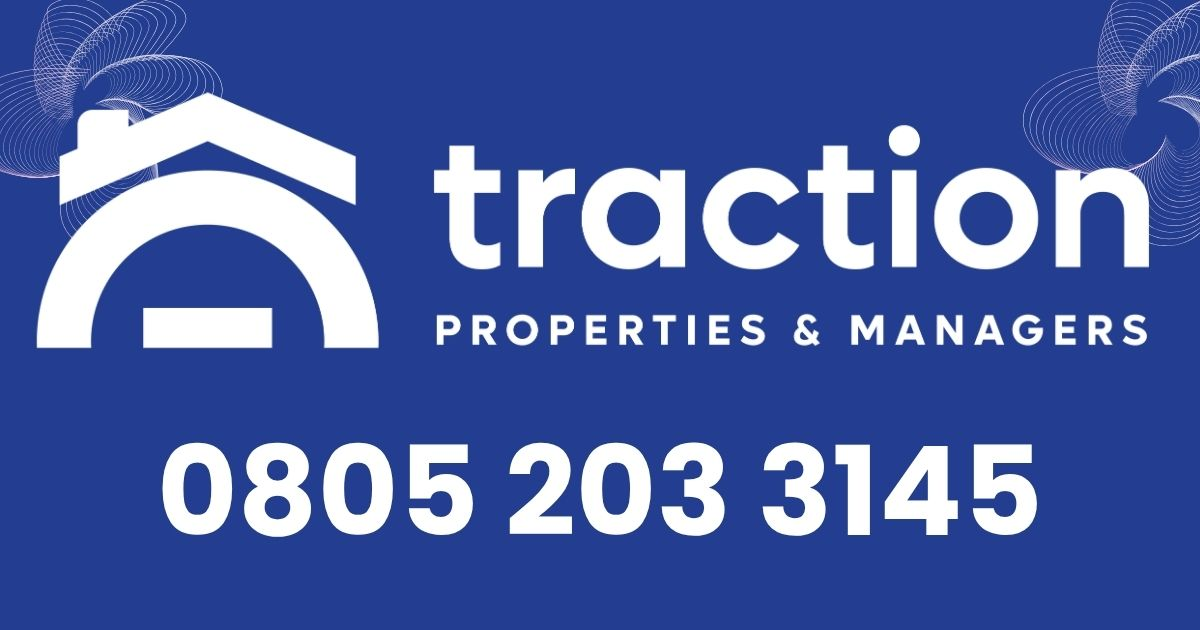
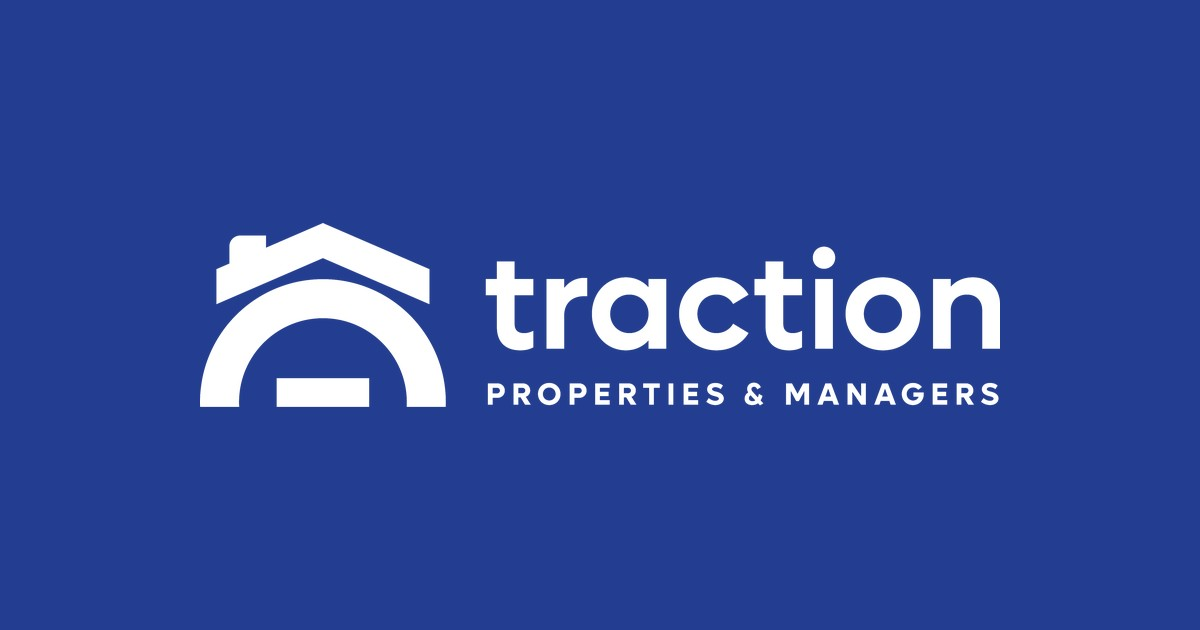
Update Traction Properties brand across estate lands and properties pages
Logo:
  Replaced old traction-properties-and-managers.png with proper new
  logo files across both pages:
  - Header/footer: traction-properties-logo-white.png (white version
    for dark green backgrounds)
  - Favicon: traction-properties-favicon.png (32px icon mark)
  - Apple touch: traction-properties-icon-512.png
  - OG image: og-traction-properties.jpg (1200x630 blue brand bg
    with white logo centered)

Estate Lands page changes:
  1. Coming Soon placeholders: each of the 5 location cards now has a
     1:1 aspect-ratio placeholder above the card header with diagonal
     grid texture, gold border badge 'Property Flyer', and 'Coming
     Soon' text. Replace with property flyer images when ready.
  2. Card feature text reduced (12.5px, tighter padding) to accommodate
     the placeholder without increasing card height
  3. Why Traction Properties section removed
  4. How It Works / Process section removed
  5. Social links updated to Traction Properties accounts:
     Instagram: @traction_properties
     TikTok: @traction_properties
     WhatsApp: 0805 203 3145

Properties page changes:
  - Why Traction Properties section added before the property
    management section (dark green, 3 value props + stat boxes)
  - New logo, favicon, OG image applied

Changed region(s): [[0.0, 0.0, 1.0, 0.6635], [0.1233, 0.6937, 0.8633, 0.8746], [0.4008, 0.6032, 0.8325, 0.6635]]

diff --git a/brands/properties/estate-lands/index.html b/brands/properties/estate-lands/index.html
@@ -31,9 +31,10 @@
     <meta property="og:title" content="Affordable Estate Lands in Abuja | Traction Properties">
     <meta property="og:description" content="Prime estate plots in Kuje, Jikwoyi, Asokoro 2, Katampe Extension 2, and Guzape. Starting from N3,000,000.">
     <meta property="og:url" content="https://tolnigeria.com/brands/properties/estate-lands/">
-    <meta property="og:image" content="https://tolnigeria.com/brands/properties/abuja-estate-lands-hero.jpg">
+    <meta property="og:image" content="https://tolnigeria.com/images/og/og-traction-properties.jpg">
 
-    <link rel="icon" type="image/x-icon" href="/images/favicon.ico">
+    <link rel="icon" type="image/png" href="/images/traction-properties-favicon.png">
+    <link rel="apple-touch-icon" href="/images/traction-properties-icon-512.png">
     <link rel="preconnect" href="https://fonts.googleapis.com">
     <link rel="preconnect" href="https://fonts.gstatic.com" crossorigin>
     <link href="https://fonts.googleapis.com/css2?family=Cormorant+Garamond:wght@400;600;700&family=Inter:wght@300;400;500;600;700&display=swap" rel="stylesheet">
@@ -288,6 +289,44 @@
             .process-steps { grid-template-columns: 1fr 1fr; }
         }
 
+        /* COMING SOON PLACEHOLDER */
+        .coming-soon {
+            width: 100%; aspect-ratio: 1 / 1;
+            background: #1a1a1a;
+            display: flex; flex-direction: column; align-items: center; justify-content: center;
+            position: relative; overflow: hidden;
+        }
+        .coming-soon::before {
+            content: ''; position: absolute; inset: 0;
+            background: repeating-linear-gradient(
+                45deg,
+                rgba(35,62,144,0.08) 0px, rgba(35,62,144,0.08) 1px,
+                transparent 1px, transparent 12px
+            );
+        }
+        .coming-soon-inner { position: relative; text-align: center; }
+        .coming-soon-badge {
+            display: inline-block;
+            border: 1.5px solid rgba(201,168,76,0.7);
+            color: #c9a84c;
+            font-size: 9px; font-weight: 800; letter-spacing: 3.5px;
+            text-transform: uppercase; padding: 5px 16px; margin-bottom: 14px;
+        }
+        .coming-soon-text {
+            font-family: 'Cormorant Garamond', serif;
+            font-size: 22px; font-weight: 700; color: rgba(255,255,255,0.9);
+            letter-spacing: 1px;
+        }
+        .coming-soon-sub {
+            font-size: 11px; color: rgba(255,255,255,0.4);
+            margin-top: 8px; letter-spacing: 0.5px;
+        }
+        /* Smaller card feature text */
+        .card-features li { font-size: 12.5px; padding: 5px 0; }
+        .card-features li i { font-size: 11px; }
+        .card-body { padding: 16px 20px 20px; }
+        .card-price { font-size: 19px; margin-bottom: 12px; }
+
         /* REVEAL ANIMATION */
         @media (prefers-reduced-motion: no-preference) {
             .location-card { opacity: 0; transform: translateY(20px); transition: opacity 0.45s ease, transform 0.45s ease, box-shadow 0.25s; }
@@ -304,7 +343,7 @@
     <!-- HEADER -->
     <header class="tp-header">
         <a href="/brands/properties/" class="tp-logo">
-            <img src="/images/traction-properties-and-managers.png" alt="Traction Properties and Managers">
+            <img src="/images/traction-properties-logo-white.png" alt="Traction Properties and Managers">
         </a>
         <button class="tp-hamburger" id="tpHamburger" aria-label="Open menu">
             <span></span><span></span><span></span>
@@ -352,6 +391,13 @@
 
         <div class="locations-grid">
             <div class="location-card featured">
+                <div class="coming-soon">
+                    <div class="coming-soon-inner">
+                        <div class="coming-soon-badge">Property Flyer</div>
+                        <div class="coming-soon-text">Coming Soon</div>
+                        <div class="coming-soon-sub">Flyer will appear here</div>
+                    </div>
+                </div>
                 <div class="card-header">
                     <div class="featured-tag">High Demand</div>
                     <div class="location-name">Guzape</div>
@@ -370,6 +416,13 @@
             </div>
 
             <div class="location-card">
+                <div class="coming-soon">
+                    <div class="coming-soon-inner">
+                        <div class="coming-soon-badge">Property Flyer</div>
+                        <div class="coming-soon-text">Coming Soon</div>
+                        <div class="coming-soon-sub">Flyer will appear here</div>
+                    </div>
+                </div>
                 <div class="card-header">
                     <div class="location-name">Asokoro 2</div>
                     <div class="location-area">Abuja Municipal Area Council &middot; AMAC</div>
@@ -387,6 +440,13 @@
             </div>
 
             <div class="location-card">
+                <div class="coming-soon">
+                    <div class="coming-soon-inner">
+                        <div class="coming-soon-badge">Property Flyer</div>
+                        <div class="coming-soon-text">Coming Soon</div>
+                        <div class="coming-soon-sub">Flyer will appear here</div>
+                    </div>
+                </div>
                 <div class="card-header">
                     <div class="location-name">Katampe Ext. 2</div>
                     <div class="location-area">Katampe Extension &middot; Abuja</div>
@@ -404,6 +464,13 @@
             </div>
 
             <div class="location-card">
+                <div class="coming-soon">
+                    <div class="coming-soon-inner">
+                        <div class="coming-soon-badge">Property Flyer</div>
+                        <div class="coming-soon-text">Coming Soon</div>
+                        <div class="coming-soon-sub">Flyer will appear here</div>
+                    </div>
+                </div>
                 <div class="card-header">
                     <div class="location-name">Jikwoyi</div>
                     <div class="location-area">Abuja Municipal Area Council &middot; AMAC</div>
@@ -421,6 +488,13 @@
             </div>
 
             <div class="location-card">
+                <div class="coming-soon">
+                    <div class="coming-soon-inner">
+                        <div class="coming-soon-badge">Property Flyer</div>
+                        <div class="coming-soon-text">Coming Soon</div>
+                        <div class="coming-soon-sub">Flyer will appear here</div>
+                    </div>
+                </div>
                 <div class="card-header">
                     <div class="location-name">Kuje</div>
                     <div class="location-area">Kuje Area Council &middot; FCT</div>
@@ -435,84 +509,6 @@
                     <div class="card-price">From &#8358;3,000,000 <span>Per plot &middot; Price may vary by size</span></div>
                     <a href="https://wa.me/2348052033145?text=Hi%2C%20I%20am%20interested%20in%20estate%20land%20in%20Kuje%2C%20Abuja." target="_blank" rel="noopener" class="card-cta"><i class="fab fa-whatsapp"></i> Enquire About Kuje</a>
                 </div>
-            </div>
-        </div>
-    </section>
-
-    <!-- WHY SECTION -->
-    <section class="section why-section">
-        <div class="why-grid">
-            <div class="why-left">
-                <span class="section-label">Why Traction Properties</span>
-                <h2 class="section-heading">Land you can trust. Backed by professionals.</h2>
-                <p class="section-sub">We handle every step of the acquisition process — from due diligence to documentation — so you can invest with confidence.</p>
-                <ul class="why-points">
-                    <li class="why-point">
-                        <div class="why-icon"><i class="fas fa-file-contract"></i></div>
-                        <div class="why-point-text">
-                            <h4>Clear Title Documentation</h4>
-                            <p>Every plot comes with verified title documents including surveys and gazette records reviewed before any payment.</p>
-                        </div>
-                    </li>
-                    <li class="why-point">
-                        <div class="why-icon"><i class="fas fa-credit-card"></i></div>
-                        <div class="why-point-text">
-                            <h4>Flexible Payment Plans</h4>
-                            <p>We offer installment options designed around your financial schedule. No hidden charges.</p>
-                        </div>
-                    </li>
-                    <li class="why-point">
-                        <div class="why-icon"><i class="fas fa-user-tie"></i></div>
-                        <div class="why-point-text">
-                            <h4>Professional Advisory</h4>
-                            <p>Our team guides you from first enquiry through site visit, documentation, and final allocation.</p>
-                        </div>
-                    </li>
-                </ul>
-            </div>
-            <div class="why-right">
-                <div class="stat-box wide">
-                    <div class="stat-num">5</div>
-                    <div class="stat-label">Prime locations available<br>across Abuja &amp; the FCT</div>
-                </div>
-                <div class="stat-box">
-                    <div class="stat-num">&#8358;3M</div>
-                    <div class="stat-label">Starting price<br>per plot</div>
-                </div>
-                <div class="stat-box">
-                    <div class="stat-num">24/7</div>
-                    <div class="stat-label">Client support<br>always available</div>
-                </div>
-            </div>
-        </div>
-    </section>
-
-    <!-- PROCESS -->
-    <section class="section process-section">
-        <div class="process-intro">
-            <span class="section-label">How It Works</span>
-            <h2 class="section-heading">From enquiry to ownership in 4 steps</h2>
-        </div>
-        <div class="process-steps">
-            <div class="step">
-                <div class="step-num">1</div>
-                <h4>Choose a Location</h4>
-                <p>Browse our five locations and select the one that fits your goals and budget.</p>
-            </div>
-            <div class="step">
-                <div class="step-num">2</div>
-                <h4>Contact Our Team</h4>
-                <p>Reach us via WhatsApp or phone. We arrange a site visit and share full details.</p>
-            </div>
-            <div class="step">
-                <div class="step-num">3</div>
-                <h4>Review Documentation</h4>
-                <p>All title documents are shared for your review before any payment is made.</p>
-            </div>
-            <div class="step">
-                <div class="step-num">4</div>
-                <h4>Complete Purchase</h4>
-                <p>Make payment, receive your allocation letter, and take ownership of your land.</p>
             </div>
         </div>
     </section>
@@ -533,12 +529,12 @@
     <footer class="tp-footer">
         <div class="footer-grid">
             <div class="footer-brand">
-                <img src="/images/traction-properties-and-managers.png" alt="Traction Properties and Managers">
+                <img src="/images/traction-properties-logo-white.png" alt="Traction Properties and Managers">
                 <p>A premier property management, brokerage, and real estate advisory firm based in Abuja, Nigeria. A brand of Traction Outsourcing Limited.</p>
                 <div class="footer-social">
-                    <a href="https://instagram.com/tractionoutsourcing" target="_blank" rel="noopener" aria-label="Instagram"><i class="fab fa-instagram"></i></a>
-                    <a href="https://wa.me/2348052033145" target="_blank" rel="noopener" aria-label="WhatsApp"><i class="fab fa-whatsapp"></i></a>
-                    <a href="https://tiktok.com/@tractionoutsourcing" target="_blank" rel="noopener" aria-label="TikTok"><i class="fab fa-tiktok"></i></a>
+                    <a href="https://www.instagram.com/traction_properties" target="_blank" rel="noopener" aria-label="Instagram"><i class="fab fa-instagram"></i></a>
+                    <a href="https://wa.me/2348052033145" target="_blank" rel="noopener" aria-label="WhatsApp (Traction Properties)"><i class="fab fa-whatsapp"></i></a>
+                    <a href="https://www.tiktok.com/@traction_properties" target="_blank" rel="noopener" aria-label="TikTok"><i class="fab fa-tiktok"></i></a>
                 </div>
             </div>
             <div class="footer-col">

diff --git a/brands/properties/index.html b/brands/properties/index.html
@@ -17,7 +17,8 @@
     <meta property="og:image:type" content="image/jpeg">
 
 
-    <link rel="icon" type="image/x-icon" href="/images/favicon.ico">
+    <link rel="icon" type="image/png" href="/images/traction-properties-favicon.png">
+    <link rel="apple-touch-icon" href="/images/traction-properties-icon-512.png">
     <link rel="preload" href="https://cdnjs.cloudflare.com/ajax/libs/font-awesome/6.5.1/css/all.min.css" as="style" onload="this.onload=null;this.rel='stylesheet'">
     <noscript><link rel="stylesheet" href="https://cdnjs.cloudflare.com/ajax/libs/font-awesome/6.5.1/css/all.min.css"></noscript>
     <link rel="stylesheet" href="/css/style.css">
@@ -42,6 +43,27 @@
             .grid { padding: 0 6%; }
             .section-title { font-size: 24px; margin: 35px 0 20px; }
         }
+    
+        /* WHY TRACTION section */
+        .why-section { background: #1e3a21; color: white; padding: 70px 5%; }
+        .why-grid { display: grid; grid-template-columns: 1fr 1fr; gap: 60px; max-width: 1100px; margin: 0 auto; align-items: center; }
+        .why-left .section-label { color: #c9a84c; display: block; font-size: 11px; font-weight: 700; letter-spacing: 3px; text-transform: uppercase; margin-bottom: 12px; }
+        .why-left .section-heading { font-family: Georgia, serif; font-size: clamp(24px, 3.5vw, 40px); font-weight: 700; color: white; line-height: 1.15; margin-bottom: 14px; }
+        .why-left .section-sub { font-size: 15px; color: rgba(255,255,255,0.70); line-height: 1.7; max-width: 480px; }
+        .why-points { list-style: none; margin-top: 30px; display: flex; flex-direction: column; gap: 20px; }
+        .why-point { display: flex; gap: 14px; align-items: flex-start; }
+        .why-icon { width: 42px; height: 42px; border-radius: 8px; background: rgba(201,168,76,0.15); border: 1px solid rgba(201,168,76,0.3); display: flex; align-items: center; justify-content: center; flex-shrink: 0; }
+        .why-icon i { color: #c9a84c; font-size: 15px; }
+        .why-point-text h4 { font-size: 14px; font-weight: 600; color: white; margin-bottom: 3px; }
+        .why-point-text p { font-size: 13px; color: rgba(255,255,255,0.62); line-height: 1.6; }
+        .why-right { display: grid; grid-template-columns: 1fr 1fr; gap: 14px; }
+        .stat-box { background: rgba(255,255,255,0.06); border: 1px solid rgba(255,255,255,0.1); border-radius: 10px; padding: 26px 18px; text-align: center; }
+        .stat-box.wide { grid-column: span 2; background: rgba(201,168,76,0.1); border-color: rgba(201,168,76,0.28); }
+        .stat-num { font-family: Georgia, serif; font-size: 44px; font-weight: 700; color: #c9a84c; line-height: 1; margin-bottom: 6px; }
+        .stat-label { font-size: 12px; color: rgba(255,255,255,0.6); line-height: 1.5; }
+        @media (max-width: 900px) { .why-grid { grid-template-columns: 1fr; gap: 36px; } .why-right { grid-template-columns: 1fr 1fr; } }
+        @media (max-width: 480px) { .why-right { grid-template-columns: 1fr; } .why-right .stat-box.wide { grid-column: span 1; } }
+
     </style>
     <!-- Microsoft Clarity -->
     <script>
@@ -120,7 +142,7 @@
                 <a href="#">Our Brands <i class="fas fa-chevron-down dropdown-arrow"></i></a>
                 <div class="dropdown-content">
                     <a href="/brands/properties/" class="dropdown-item">
-                        <img src="/images/traction-properties-and-managers.png" width="743" height="250" alt="Traction Properties Logo">
+                        <img src="/images/traction-properties-logo-white.png" width="743" height="250" alt="Traction Properties Logo">
                         Traction Properties
                     </a>
                     <a href="/brands/recruiters/" class="dropdown-item">
@@ -139,7 +161,7 @@
 
     <!-- Brand Introduction -->
     <section class="intro-section">
-        <img src="/images/traction-properties-and-managers.png" width="743" height="250" alt="Traction Properties and Managers" style="height: 80px; width: auto; margin-bottom: 15px;">
+        <img src="/images/traction-properties-logo-white.png" width="743" height="250" alt="Traction Properties and Managers" style="height: 80px; width: auto; margin-bottom: 15px;">
         <h1 style="font-size: 32px; color: var(--primary-color); margin: 0 0 14px;">Property Management & Real Estate Brokerage in Abuja</h1>
         <p style="max-width: 850px; margin: 0 auto; font-size: 17px; color: #555; line-height: 1.8;">
             Traction Properties and Managers is a premier property management, commercial brokerage, and real estate advisory firm based in the heart of Abuja, Nigeria. Built on deep structural transparency and institutional market intelligence, we assist property owners, corporate investors, and premium tenants navigate asset evaluation with confidence. Our systems combine comprehensive facility oversight with risk-adjusted investment blueprints to safeguard luxury residential and commercial assets.
@@ -198,7 +220,78 @@
         @media (max-width: 600px) {
             .estate-card-content { padding: 36px 24px !important; }
         }
+    
+        /* WHY TRACTION section */
+        .why-section { background: #1e3a21; color: white; padding: 70px 5%; }
+        .why-grid { display: grid; grid-template-columns: 1fr 1fr; gap: 60px; max-width: 1100px; margin: 0 auto; align-items: center; }
+        .why-left .section-label { color: #c9a84c; display: block; font-size: 11px; font-weight: 700; letter-spacing: 3px; text-transform: uppercase; margin-bottom: 12px; }
+        .why-left .section-heading { font-family: Georgia, serif; font-size: clamp(24px, 3.5vw, 40px); font-weight: 700; color: white; line-height: 1.15; margin-bottom: 14px; }
+        .why-left .section-sub { font-size: 15px; color: rgba(255,255,255,0.70); line-height: 1.7; max-width: 480px; }
+        .why-points { list-style: none; margin-top: 30px; display: flex; flex-direction: column; gap: 20px; }
+        .why-point { display: flex; gap: 14px; align-items: flex-start; }
+        .why-icon { width: 42px; height: 42px; border-radius: 8px; background: rgba(201,168,76,0.15); border: 1px solid rgba(201,168,76,0.3); display: flex; align-items: center; justify-content: center; flex-shrink: 0; }
+        .why-icon i { color: #c9a84c; font-size: 15px; }
+        .why-point-text h4 { font-size: 14px; font-weight: 600; color: white; margin-bottom: 3px; }
+        .why-point-text p { font-size: 13px; color: rgba(255,255,255,0.62); line-height: 1.6; }
+        .why-right { display: grid; grid-template-columns: 1fr 1fr; gap: 14px; }
+        .stat-box { background: rgba(255,255,255,0.06); border: 1px solid rgba(255,255,255,0.1); border-radius: 10px; padding: 26px 18px; text-align: center; }
+        .stat-box.wide { grid-column: span 2; background: rgba(201,168,76,0.1); border-color: rgba(201,168,76,0.28); }
+        .stat-num { font-family: Georgia, serif; font-size: 44px; font-weight: 700; color: #c9a84c; line-height: 1; margin-bottom: 6px; }
+        .stat-label { font-size: 12px; color: rgba(255,255,255,0.6); line-height: 1.5; }
+        @media (max-width: 900px) { .why-grid { grid-template-columns: 1fr; gap: 36px; } .why-right { grid-template-columns: 1fr 1fr; } }
+        @media (max-width: 480px) { .why-right { grid-template-columns: 1fr; } .why-right .stat-box.wide { grid-column: span 1; } }
+
     </style>
+
+    <!-- WHY SECTION -->
+    <section class="section why-section" id="why-traction">
+        <div class="why-grid">
+            <div class="why-left">
+                <span class="section-label">Why Traction Properties</span>
+                <h2 class="section-heading">Land you can trust. Backed by professionals.</h2>
+                <p class="section-sub">We handle every step of the acquisition process — from due diligence to documentation — so you can invest with confidence.</p>
+                <ul class="why-points">
+                    <li class="why-point">
+                        <div class="why-icon"><i class="fas fa-file-contract"></i></div>
+                        <div class="why-point-text">
+                            <h4>Clear Title Documentation</h4>
+                            <p>Every plot comes with verified title documents including surveys and gazette records reviewed before any payment.</p>
+                        </div>
+                    </li>
+                    <li class="why-point">
+                        <div class="why-icon"><i class="fas fa-credit-card"></i></div>
+                        <div class="why-point-text">
+                            <h4>Flexible Payment Plans</h4>
+                            <p>We offer installment options designed around your financial schedule. No hidden charges.</p>
+                        </div>
+                    </li>
+                    <li class="why-point">
+                        <div class="why-icon"><i class="fas fa-user-tie"></i></div>
+                        <div class="why-point-text">
+                            <h4>Professional Advisory</h4>
+                            <p>Our team guides you from first enquiry through site visit, documentation, and final allocation.</p>
+                        </div>
+                    </li>
+                </ul>
+            </div>
+            <div class="why-right">
+                <div class="stat-box wide">
+                    <div class="stat-num">5</div>
+                    <div class="stat-label">Prime locations available<br>across Abuja &amp; the FCT</div>
+                </div>
+                <div class="stat-box">
+                    <div class="stat-num">&#8358;3M</div>
+                    <div class="stat-label">Starting price<br>per plot</div>
+                </div>
+                <div class="stat-box">
+                    <div class="stat-num">24/7</div>
+                    <div class="stat-label">Client support<br>always available</div>
+                </div>
+            </div>
+        </div>
+    </section>
+
+
 
     <!-- Section: Property Management Services -->
     <section class="intro-section" style="background: #fff; border-top: 1px solid #eee;">
